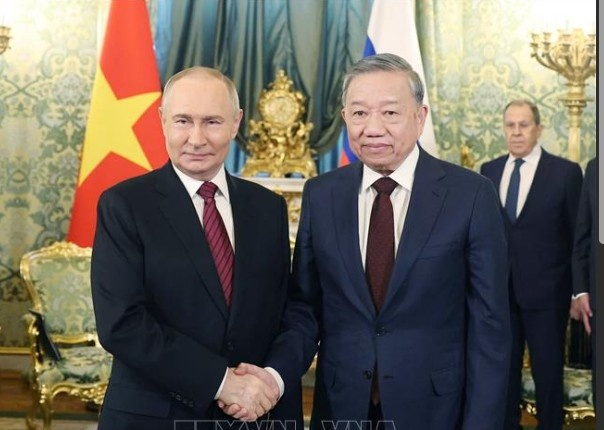
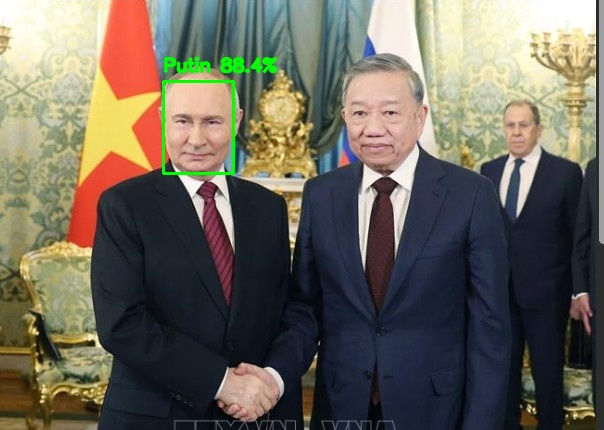
upd

Changed region(s): [[0.2682, 0.1209, 0.4768, 0.4233]]

diff --git a/multiUsersIdentity_Matching.py b/multiUsersIdentity_Matching.py
@@ -20,6 +20,21 @@ def normalize_vector(v):
     norm = np.linalg.norm(v)
     return v / norm if norm != 0 else v
 
+def draw_basic_bound(img, box, label, color):
+    """ Vẽ khung chữ nhật cơ bản nhất """
+    x, y, w, h = box['x'], box['y'], box['w'], box['h']
+    
+    # 1. Vẽ khung hình chữ nhật bao quanh mặt (Độ dày 2)
+    cv2.rectangle(img, (x, y), (x + w, y + h), color, 2)
+
+    # 2. Vẽ nhãn tên phía trên khung
+    font = cv2.FONT_HERSHEY_SIMPLEX
+    font_scale = 0.6
+    thickness = 2
+    
+    # Đặt text cách khung 10px về phía trên
+    cv2.putText(img, label, (x, y - 10), font, font_scale, color, thickness, cv2.LINE_AA)
+
 def run_hybrid_matching():
     if os.path.exists(RESULT_IMG_DIR):
         shutil.rmtree(RESULT_IMG_DIR)
@@ -32,7 +47,7 @@ def run_hybrid_matching():
         print(f"Database Error: {e}")
         return
 
-    # 1. LOAD MASTER DATA (Lấy thêm Gender gốc từ DB)
+    # 1. LOAD MASTER DATA
     cursor.execute("SELECT UserName, FaceData, UserAvatar, Gender FROM Users")
     user_rows = cursor.fetchall()
     master_db = {}
@@ -40,14 +55,8 @@ def run_hybrid_matching():
         name = str(row[0]).capitalize()
         vectors = [normalize_vector(np.fromstring(v, sep=',')) for v in str(row[1]).split(';') if v.strip()]
         if vectors:
-            master_db[name] = {
-                "vectors": vectors, 
-                "avatar": row[2],
-                "gender": row[3] # Lưu gender gốc
-            }
+            master_db[name] = {"vectors": vectors, "avatar": row[2], "gender": row[3]}
     
-    print(f"[*] Loaded {len(master_db)} Master Identities.")
-
     # 2. LOAD TARGET IMAGES
     cursor.execute("SELECT FilePath, FaceData, BoxX, BoxY, BoxW, BoxH, FileName, Gender FROM ImageLabels")
     image_groups = defaultdict(list)
@@ -64,22 +73,21 @@ def run_hybrid_matching():
         img = cv2.imread(full_img_path)
         if img is None: continue
 
-        valid_detections_in_this_image = []
+        valid_detections = []
         match_info_list = []
 
         for f_row in faces:
             _, f_data, bx, by, bw, bh, filename, test_gender = f_row
-            
             if (bw * bh) < 2500: continue
+            
+            box = {"x": bx, "y": by, "w": bw, "h": bh}
 
             if test_gender == 'Anime':
-                valid_detections_in_this_image.append({
-                    "box": {"x": bx, "y": by, "w": bw, "h": bh},
-                    "type": "Anime",
-                    "name": "Anime Character",
-                    "gender": "Anime",
-                    "accuracy": 100.0,
-                    "master_avatar": ""
+                # Màu vàng hổ phách cho Anime
+                draw_basic_bound(img, box, "Anime Unit", (0, 165, 255))
+                valid_detections.append({
+                    "box": box, "type": "Anime", "name": "Anime Character",
+                    "gender": "Anime", "accuracy": 100.0, "master_avatar": ""
                 })
                 match_info_list.append(f"<span class='tag anime'>Anime</span>")
             
@@ -96,27 +104,20 @@ def run_hybrid_matching():
                 best_name, best_dist, best_avatar, master_gender = scores[0]
                 
                 if best_dist < 0.36:
-                    is_certain = True
-                    if len(scores) > 1 and (scores[1][1] - best_dist) < 0.05:
-                        is_certain = False
+                    acc = max(0, min(99.9, (1 - (best_dist / 0.6)) * 100))
                     
-                    if is_certain:
-                        acc = max(0, min(99.9, (1 - (best_dist / 0.6)) * 100))
-                        
-                        # Lưu vào JSON (Có thêm Gender)
-                        valid_detections_in_this_image.append({
-                            "box": {"x": bx, "y": by, "w": bw, "h": bh},
-                            "type": "Human",
-                            "name": best_name,
-                            "gender": master_gender, # Trả về giới tính từ DB
-                            "accuracy": round(acc, 2),
-                            "master_avatar": best_avatar
-                        })
-                        # Tag cho HTML
-                        gender_color = "#58a6ff" if master_gender == 'Man' else "#ff7b72"
-                        match_info_list.append(f"<span class='tag human'>{best_name} ({master_gender}) - {acc:.1f}%</span>")
+                    # Màu xanh lá cây cho người (Basic)
+                    color = (0, 255, 0) 
+                    label_text = f"{best_name} {acc:.1f}%"
+                    draw_basic_bound(img, box, label_text, color)
 
-        if valid_detections_in_this_image:
+                    valid_detections.append({
+                        "box": box, "type": "Human", "name": best_name,
+                        "gender": master_gender, "accuracy": round(acc, 2), "master_avatar": best_avatar
+                    })
+                    match_info_list.append(f"<span class='tag human'>{best_name} ({master_gender})</span>")
+
+        if valid_detections:
             res_filename = f"res_{os.path.basename(real_path)}"
             cv2.imwrite(os.path.join(RESULT_IMG_DIR, res_filename), img)
             
@@ -124,51 +125,18 @@ def run_hybrid_matching():
                 "source_file": os.path.basename(real_path),
                 "source_path": real_path,
                 "result_web_path": f"web_results/{res_filename}",
-                "detections": valid_detections_in_this_image
+                "detections": valid_detections
             })
 
             info_html = "".join(match_info_list)
-            html_items += f"""
-            <div class="card">
-                <div class="card-header">{os.path.basename(real_path)}</div>
-                <div class="image-container"><img src="web_results/{res_filename}"></div>
-                <div class="card-info">{info_html}</div>
-            </div>
-            """
+            html_items += f"""<div class="card"><div class="card-header">{os.path.basename(real_path)}</div>
+                            <div class="image-container"><img src="web_results/{res_filename}"></div>
+                            <div class="card-info">{info_html}</div></div>"""
 
-    # Ghi file JSON cho WinForm
     with open("results.json", "w", encoding="utf-8") as jf:
         json.dump(winform_data, jf, indent=4, ensure_ascii=False)
     
-    # Ghi file HTML (Style Dark Mode)
-    html_content = f"""
-    <!DOCTYPE html>
-    <html lang="en">
-    <head>
-        <meta charset="UTF-8">
-        <title>IdentityFinder Report</title>
-        <style>
-            body {{ font-family: 'Segoe UI', sans-serif; background-color: #0d1117; color: #c9d1d9; padding: 20px; }}
-            .container {{ display: flex; flex-direction: column; align-items: center; gap: 20px; }}
-            .card {{ background-color: #161b22; border: 1px solid #30363d; border-radius: 8px; width: 90%; max-width: 900px; }}
-            .card-header {{ padding: 10px; background: #21262d; border-bottom: 1px solid #30363d; font-family: monospace; }}
-            .card-info {{ padding: 10px; display: flex; gap: 10px; }}
-            .tag {{ padding: 4px 10px; border-radius: 12px; font-size: 0.8em; border: 1px solid; }}
-            .human {{ color: #3fb950; border-color: #3fb950; }}
-            .anime {{ color: #d29922; border-color: #d29922; }}
-            img {{ width: 100%; height: auto; }}
-        </style>
-    </head>
-    <body>
-        <h1 style="text-align:center;">AI Recognition Analysis</h1>
-        <div class="container">{html_items}</div>
-    </body>
-    </html>
-    """
-    with open("report.html", "w", encoding="utf-8") as f:
-        f.write(html_content)
-
-    print(f"[*] DONE: JSON and HTML updated with Gender info.")
+    print(f"[*] DONE: Basic frames rendered. JSON updated.")
     conn.close()
 
 if __name__ == "__main__":
